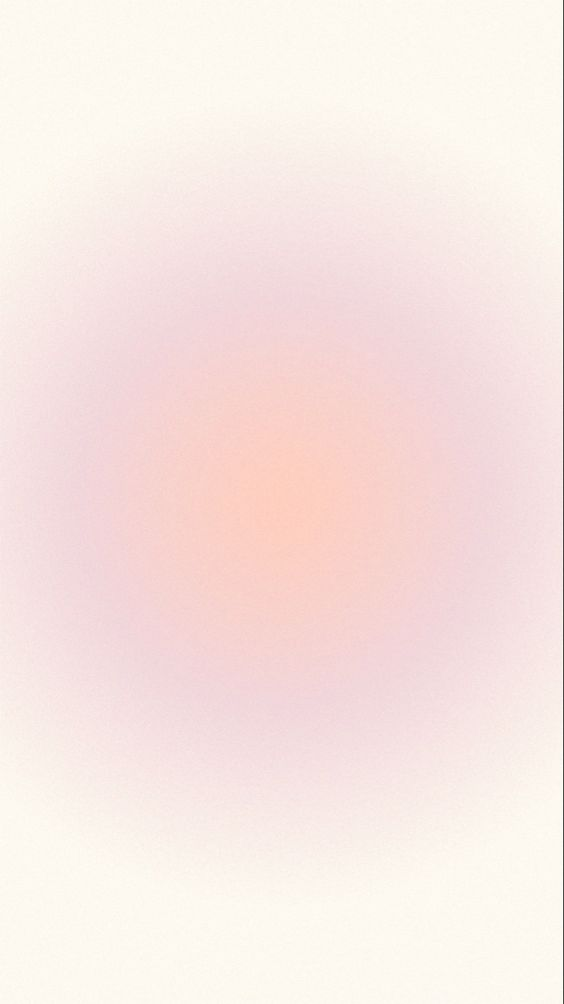
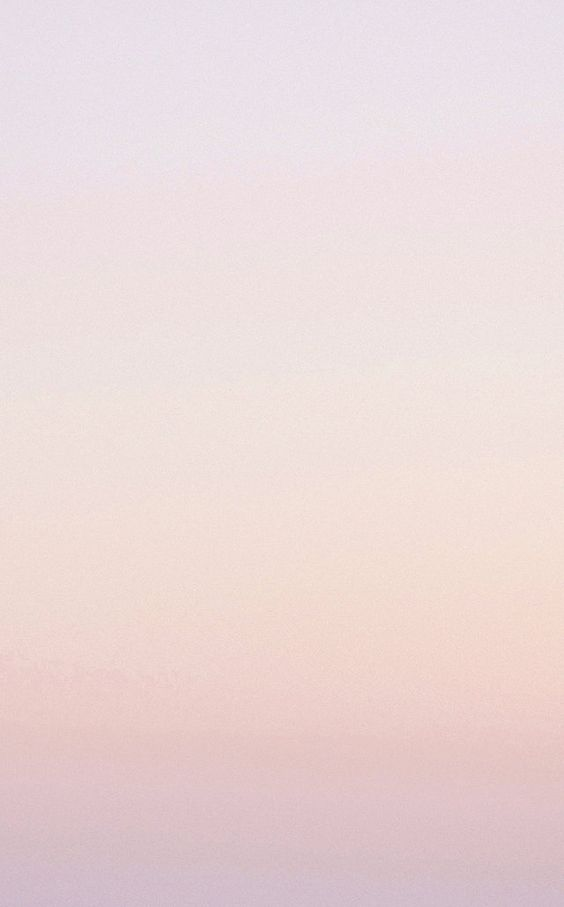
style: replace main background

diff --git a/components/Shop/Order/ShoppingBagDialog.tsx b/components/Shop/Order/ShoppingBagDialog.tsx
@@ -35,7 +35,7 @@ function ShoppingBagDialog() {
           </span>
         </div>
       </SheetTrigger>
-      <SheetContentLayout backgroundImage="/bg/bg3.jpg" className="pt-24">
+      <SheetContentLayout backgroundImage="/bg/main-bg.jpg" className="pt-24">
         <div className="absolute top-6 left-1/2 -translate-x-1/2">
           <h2 className="text-center font-semibold text-xl">My Cart</h2>
         </div>

diff --git a/components/Mine/Profile/UserVoucher/UserVoucherDiaLog.tsx b/components/Mine/Profile/UserVoucher/UserVoucherDiaLog.tsx
@@ -13,7 +13,10 @@ function UserVoucherDiaLog() {
         name="Vouchers"
         className="-mr-2"
       />
-      <SheetContentLayout backgroundImage="/bg/bg3.jpg" className="px-2 pt-20">
+      <SheetContentLayout
+        backgroundImage="/bg/main-bg.jpg"
+        className="px-2 pt-20"
+      >
         <QrcodeDialogTemplate />
         <UserVoucherCardList />
       </SheetContentLayout>

diff --git a/components/Mine/Profile/UserProduct/UserProductDialog.tsx b/components/Mine/Profile/UserProduct/UserProductDialog.tsx
@@ -13,7 +13,10 @@ function UserProductDialog() {
         name="Collection"
         className="-mt-1"
       />
-      <SheetContentLayout backgroundImage="/bg/bg3.jpg" className="px-2 pt-20">
+      <SheetContentLayout
+        backgroundImage="/bg/main-bg.jpg"
+        className="px-2 pt-20"
+      >
         <QrcodeDialogTemplate />
         <UserItemCardList />
       </SheetContentLayout>

diff --git a/app/(user)/page.tsx b/app/(user)/page.tsx
@@ -11,7 +11,7 @@ export default function Home() {
   return (
     <main
       style={{
-        backgroundImage: `url("https://i.pinimg.com/736x/c6/52/d7/c652d70a7f8a5d01b461bad0b68f0827.jpg")`,
+        backgroundImage: 'url("/bg/main-bg.jpg")',
         backgroundSize: "cover",
       }}
       className="relative h-screen max-w-screen-sm z-10"

diff --git a/app/(user)/more/page.tsx b/app/(user)/more/page.tsx
@@ -10,7 +10,7 @@ function Page() {
       style={{
         backgroundImage: 'url("/bg/main-bg.jpg")',
       }}
-      className="min-h-[150vh] pb-40 px-4 pt-4"
+      className="pb-40 px-4 pt-4"
     >
       <div className="flex flex-col gap-y-6 pb-40">
         <GameDialog />
